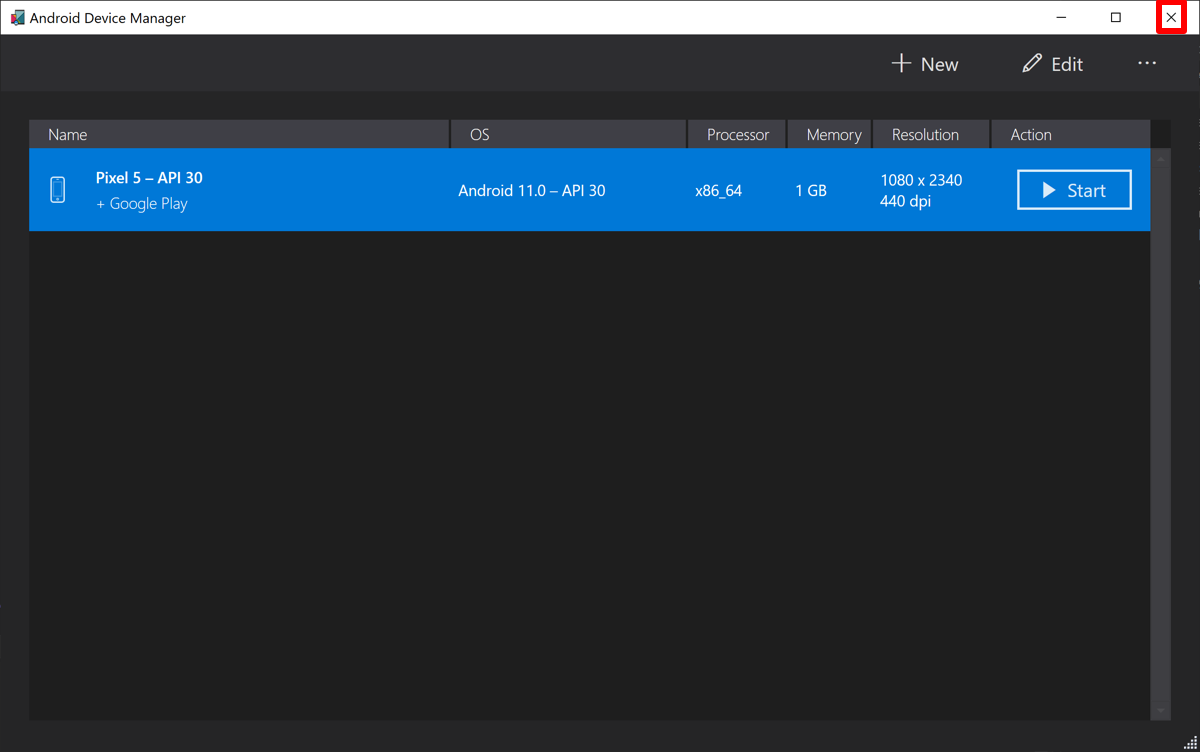
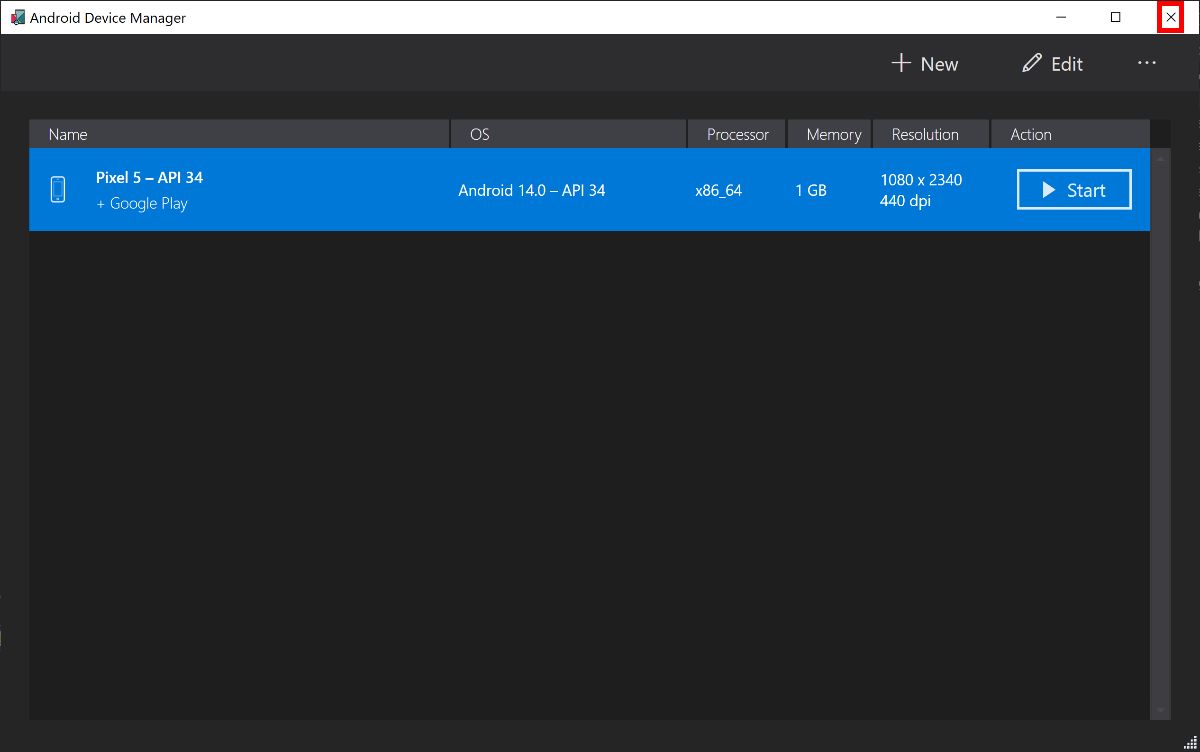
Android images.

diff --git a/docs/get-started/first-app.md b/docs/get-started/first-app.md
@@ -117,9 +117,9 @@ In this tutorial, you'll create your first .NET MAUI app in Visual Studio 2022 a
 
     :::image type="content" source="media/first-app/vs/android-device-manager.png" alt-text="Android Device Manager window.":::
 
-01. In the Visual Studio toolbar, press the **Pixel 5 - API 30 (Android 11.0 - API 30)** button to build and run the app:
+01. In the Visual Studio toolbar, press the **Pixel 5 - API 34 (Android 14.0 - API 33)** button to build and run the app:
 
-    :::image type="content" source="media/first-app/vs/pixel5-api30.png" alt-text="Pixel 5 API 30 emulator button.":::
+    :::image type="content" source="media/first-app/vs/pixel5-api-34.png" alt-text="Pixel 5 API 34 emulator button.":::
 
     Visual Studio will start the Android emulator, build the app, and deploy the app to the emulator.
 
@@ -128,7 +128,7 @@ In this tutorial, you'll create your first .NET MAUI app in Visual Studio 2022 a
 
 01. In the running app in the Android emulator, press the **Click me** button several times and observe that the count of the number of button clicks is incremented.
 
-    :::image type="content" source="media/first-app/vs/running-app.png" alt-text="App running in the Android emulator." lightbox="media/first-app/vs/running-app-large.png":::
+    :::image type="content" source="media/first-app/vs/android-running-app.png" alt-text="App running in the Android emulator.":::
 
 ## Troubleshooting
 
